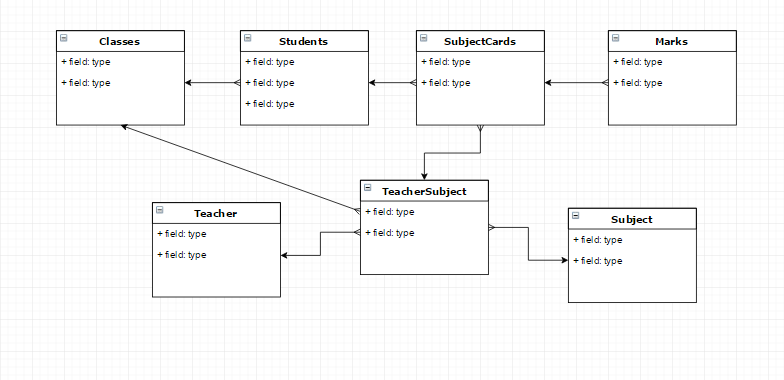
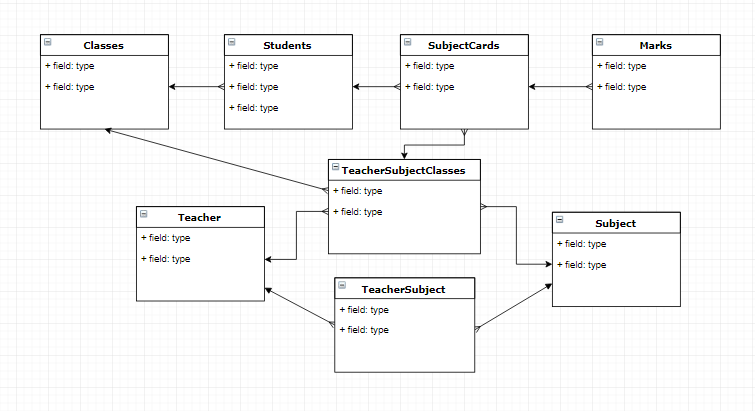
Erd Changes and DB context

diff --git a/SimpleClassRegisterApp/src/SimpleClassRegisterApp/Models/Services/StudentClassesService.cs b/SimpleClassRegisterApp/src/SimpleClassRegisterApp/Models/Services/StudentClassesService.cs
@@ -54,12 +54,12 @@ namespace SimpleClassRegisterApp.Models.Services
 
             foreach (Subject subject in subjects)
             {
-                var teacherSubject = _db.TeachersSubjects.FirstOrDefault(x => x.ClassID == student.ClassID && x.SubjectID == subject.SubjectID);
+                var teacherSubject = _db.TeacherSubjectClasses.FirstOrDefault(x => x.ClassID == student.ClassID && x.SubjectID == subject.SubjectID);
 
                 _db.SubjectCards.Add(new SubjectCard
                 {
                     StudentID = student.StudentID,
-                    TeacherSubject = teacherSubject
+                    TeacherSubjectClasses = teacherSubject
                 });
             }
 
@@ -70,7 +70,7 @@ namespace SimpleClassRegisterApp.Models.Services
         public async Task<IEnumerable<SubjectCard>> GetSubjectsMarks(string user)
         {
             var student = await _db.Students.FirstOrDefaultAsync(x => x.Mail == user);
-            var subjectsCards = _db.SubjectCards.Include(s => s.TeacherSubject).ThenInclude(s=>s.Subject).Where(s => s.StudentID == student.StudentID).Include(s => s.Marks);
+            var subjectsCards = _db.SubjectCards.Include(s => s.TeacherSubjectClasses).ThenInclude(s=>s.Subject).Where(s => s.StudentID == student.StudentID).Include(s => s.Marks);
 
             return subjectsCards;
         }

diff --git a/SimpleClassRegisterApp/src/SimpleClassRegisterApp/Models/TeacherSubjectClasses.cs b/SimpleClassRegisterApp/src/SimpleClassRegisterApp/Models/TeacherSubjectClasses.cs
@@ -5,14 +5,16 @@ using System.Threading.Tasks;
 
 namespace SimpleClassRegisterApp.Models
 {
-    public class TeacherSubject
+    public class TeacherSubjectClasses
     {
-        public int TeacherSubjectID { get; set; }
-       
+        public int TeacherSubjectClassesID { get; set; }
+        public ICollection<SubjectCard> SubjectsCards { get; set; }
+
         public int SubjectID { get; set; }
         public Subject Subject { get; set; }
         public int? TeacherID { get; set; }
         public Teacher Teacher { get; set; }
-     
+        public int ClassID { get; set; }
+        public Class Class { get; set; }
     }
 }

diff --git a/SimpleClassRegisterApp/src/SimpleClassRegisterApp/Models/DataContext/ClassRegisterDataContext.cs b/SimpleClassRegisterApp/src/SimpleClassRegisterApp/Models/DataContext/ClassRegisterDataContext.cs
@@ -15,7 +15,8 @@ namespace SimpleClassRegisterApp.Models.DataContext
         public DbSet<Subject> Subjects { get; set; }
         public DbSet<Mark> Marks { get; set; }
         public DbSet<Teacher> Teachers { get; set; }
-        public DbSet<TeacherSubject> TeachersSubjects { get; set; }
+        public DbSet<TeacherSubject> TeacherSubjects { get; set; }
+        public DbSet<TeacherSubjectClasses> TeacherSubjectClasses { get; set; }
 
         public ClassRegisterDataContext(DbContextOptions<ClassRegisterDataContext> options) : base(options)
         {

diff --git a/SimpleClassRegisterApp/src/SimpleClassRegisterApp/Models/Teacher.cs b/SimpleClassRegisterApp/src/SimpleClassRegisterApp/Models/Teacher.cs
@@ -11,6 +11,7 @@ namespace SimpleClassRegisterApp.Models
         public string FirstName { get; set; }
         public string LastName { get; set; }
         public string Mail { get; set; }
-        public ICollection<TeacherSubject> TeachersSubjects { get; set; }
+        public ICollection<TeacherSubjectClasses> TeachersSubjectsClasses { get; set; }
+        public ICollection<TeacherSubject> TeacherSubject { get; set; }
     }
 }

diff --git a/SimpleClassRegisterApp/src/SimpleClassRegisterApp/DbInitializer.cs b/SimpleClassRegisterApp/src/SimpleClassRegisterApp/DbInitializer.cs
@@ -56,7 +56,7 @@ namespace SimpleClassRegisterApp
             {
                 foreach (Subject subject in subjects2)
                 {
-                    context.TeachersSubjects.Add(new TeacherSubject
+                    context.TeacherSubjectClasses.Add(new TeacherSubjectClasses
                     {
                         ClassID = element.ClassID,
                         SubjectID = subject.SubjectID

diff --git a/SimpleClassRegisterApp/src/SimpleClassRegisterApp/Models/SubjectCard.cs b/SimpleClassRegisterApp/src/SimpleClassRegisterApp/Models/SubjectCard.cs
@@ -14,7 +14,7 @@ namespace SimpleClassRegisterApp.Models
 
         public int StudentID { get; set; }
         public Student Student { get; set; }
-        public int TeacherSubjectID { get; set; }
-        public TeacherSubject TeacherSubject { get; set; }
+        public int TeacherSubjectClassesID { get; set; }
+        public TeacherSubjectClasses TeacherSubjectClasses { get; set; }
     }
 }

diff --git a/SimpleClassRegisterApp/src/SimpleClassRegisterApp/Models/Subject.cs b/SimpleClassRegisterApp/src/SimpleClassRegisterApp/Models/Subject.cs
@@ -9,6 +9,7 @@ namespace SimpleClassRegisterApp.Models
     {
         public int SubjectID { get; set; }
         public string Name { get; set; }
-        public ICollection<TeacherSubject> TeachersSubjects { get; set; }
+        public ICollection<TeacherSubjectClasses> TeachersSubjectsClasses { get; set; }
+        public ICollection<TeacherSubject> TeacherSubject { get; set; }
     }
 }

diff --git a/SimpleClassRegisterApp/src/SimpleClassRegisterApp/Models/Class.cs b/SimpleClassRegisterApp/src/SimpleClassRegisterApp/Models/Class.cs
@@ -10,6 +10,6 @@ namespace SimpleClassRegisterApp.Models
         public int ClassID { get; set; }
         public string Identification { get; set; }
         public ICollection<Student> Students { get; set; }
-        public ICollection<TeacherSubject> ClassTeachersSubjects { get; set; }
+        public ICollection<TeacherSubjectClasses> ClassTeachersSubjects { get; set; }
     }
 }
